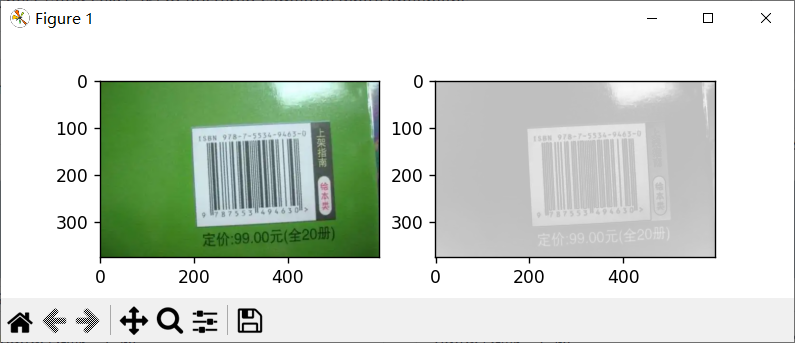
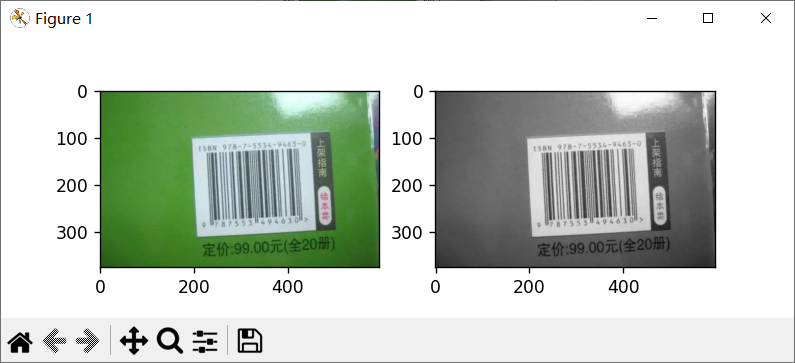
完成了二值化，修改了部分代码

diff --git a/latex_raw/report.tex b/latex_raw/report.tex
@@ -51,15 +51,17 @@ Windows10 + Python 3.10.6\\
 \[I(x,y)=0.299\cdot f_R(x,y)+0.587\cdot f_G(x,y)+0.114\cdot f_B(x,y)\] %不需要\\
 但是如果直接使用Python迭代来处理上述过程，非常缓慢。所以考虑用\textbf{矩阵运算优化}。我们知道，向量内积的计算结果是实数，故有：
 \[(R,G,B)\cdot(0.299,0.587,0.114)=0.299R+0.587G+0.114B\]
-因此，考虑用向量内积，直接调用底层依托 C++ 实现的 numpy 的向量运算 `dot` 函数，一来 C++ 比 Python 快，二来矩阵运算比迭代快，这样能起到不小的常数优化作用。在下文的其他具体实现里也会反复用到类似的思路。因此，核心代码如下：
+因此，考虑用向量内积，直接调用底层依托 C++ 实现的 numpy 的向量运算 dot 函数，一来 C++ 比 Python 快，二来矩阵运算比迭代快，这样能起到不小的常数优化作用。在下文的其他具体实现里也会反复用到类似的思路。因此，核心代码如下：
 \begin{lstlisting}[language=python]
 import numpy as np
 def toGrey(img):
+    if len(img.shape) == 2:  # 已经是灰度图像了
+        return img
     rd = img.shape[2]  # 可能是3/4(png有alpha通道)
     line = [0.299, 0.587, 0.114, 0][:rd]
-    arr = [line for i in range(rd)]
-    trans = np.array(arr).transpose()  # 矩阵转置
+    trans = np.array(line).transpose()  # 矩阵转置
     img2 = np.dot(img, trans).astype(img.dtype)
+    img2 = np.reshape(img2, img.shape[:2])
     return img2
 \end{lstlisting}
 运行效果如下：
@@ -68,9 +70,56 @@ def toGrey(img):
     \includegraphics[height=120pt]{sample_toGrey}
     \caption{灰度化效果展示}
 \end{figure}
+
+
+\subsection{二值化}
+根据课件(第9章-3基于阈值的图像分割)内容可知，可以按照图像的灰度不同，选取一个阈值 $x$，将灰度 $\ge x$ 的都转为一种灰度，其余的转为另一种灰度，实现二值化。这个阈值如果手动选取的话适应性不够强，所以考虑用基本自适应阈值。采用 Otsu 算法(最大类间方差法)，具体步骤如下：
+设图像长宽为 $n,m$，最佳阈值是 $x$，$< x$ 的点有 $n_0$ 个，$\ge x$ 的点有 $n_1$ 个，原图 $< x$ 的点平均灰度为 $\mu_0$，$\ge x$ 的点平均灰度为 $\mu_1$，令：
+\[w_0=\frac{n_0}{nm},\quad w_1=\frac{n_1}{nm}\]
+显然满足：
+\[n_0+n_1=nm,\quad w_0+w_1=1\]
+则二值化前的均值 $\mu$ 显然满足：
+\[\mu=w_0\cdot\mu_0+w_1\cdot\mu_1\]
+为了让方差最大化，设方差 $\sigma$ 为：
+\[\sigma=w_0\cdot(\mu_0-\mu)^2+w_1\cdot(\mu_1-\mu)^2\]
+联立解得：$\sigma=w_0\cdot w_1\cdot (\mu_0-\mu_1)^2$，因此，将所有 $\ge x$ 的点与 $< x$ 的点分别染色为两种灰度，即可实现灰度化。\\
+具体到代码实现上，可以枚举 $x\in[0,255]$，然后分别计算 $\sigma$，将取得最大 $\sigma$ 的 $x$ 作为阈值即可。\\
+考虑到在本题中，一般是从按的背景上分割出暗的物体(即数字)，所以将 $< x$ 的都染为黑色，$\ge x$ 的都染成白色。\\
+上述代码涉及大量遍历图像的操作，将其用\textbf{矩阵运算优化}，能显著提升运算效率。时间复杂度为 $O(255nm)$，对较小的图像能以几乎一瞬间求出结果。\\
+核心代码如下：
+\begin{lstlisting}[language=python]
+import numpy as np
+def getThrestHold(img):
+    n, m = img.shape
+    mx, x = -1, 0  # mx是当前最大值,x是取得最值的阈值
+    np.seterr(divide='ignore',invalid='ignore')#零除
+    for i in range(0, 256):
+        n0 = np.sum(img < i)
+        n1 = n*m-n0
+        w0 = n0/(n*m)
+        w1 = 1-w0
+        mu0 = np.sum(img[img < i])/n0
+        mu1 = np.sum(img[img >= i])/n1
+        g = w0*w1*(mu0-mu1)**2
+        if g > mx:
+            mx, x = g, i
+    return x
+def toBinary(img, x, ltx=0, gex=255):
+    img2 = img.copy()
+    img2[img2 < x] = ltx
+    img2[img2 >= x] = gex
+    return img2
+\end{lstlisting}
+运行效果如下：
+\begin{figure}[htbp]
+    \centering
+    \includegraphics[height=120pt]{sample_toBinary}
+    \caption{二值化效果展示}
+\end{figure}
 \section{实验结果及分析}
 \section{总结与体会}
 \section{致谢}
 \section{参考文献}
+Otsu 算法解析\\https://blog.csdn.net/a15779627836/article/details/124151125
 \section{附录}
 \end{document}

diff --git a/codes/mods/toBinary.py b/codes/mods/toBinary.py
@@ -1,0 +1,68 @@
+import numpy as np
+import cv2
+from toGrey import toGrey
+
+
+def getThrestHold(img):
+    '''传入灰度化的图像(要求维度n*m),灰度取整[0,255]\n
+    使用Otsu算法求出阈值并返回该阈值x∈[0,255]'''
+    n, m = img.shape
+    mx, x = -1, 0  # mx是当前最大值,x是取得最值的阈值
+    np.seterr(divide='ignore', invalid='ignore')  # 零除
+    for i in range(0, 256):
+        n0 = np.sum(img < i)
+        n1 = n*m-n0
+        w0 = n0/(n*m)
+        w1 = 1-w0
+        mu0 = np.sum(img[img < i])/n0
+        mu1 = np.sum(img[img >= i])/n1
+        g = w0*w1*(mu0-mu1)**2
+        if g > mx:
+            mx, x = g, i
+    return x
+
+
+def toBinary(img, x, ltx=0, gex=255):
+    '''函数功能:传入彩图img和阈值x,将其二值化并返回\n
+    规定<x的染成白色(ltx),>=x的染成灰色(gex)'''
+    img2 = img.copy()
+    img2[img2 < x] = ltx
+    img2[img2 >= x] = gex
+    return img2
+
+
+# 算法测试与展示
+'''
+import matplotlib.image as mpimg
+import matplotlib.pyplot as plt
+img = cv2.imread('../b.png')
+img0 = toGrey(img)
+img2 = toBinary(img0, getThrestHold(img0))
+plt.subplot(121)
+plt.imshow(img)
+plt.subplot(122)
+plt.imshow(img2,'gray')
+plt.show()
+'''
+
+# 算法比较：库函数调用
+'''
+def toBinary(img):
+    # img = cv2.cvtColor(img, cv2.COLOR_BGR2GRAY)
+    img = toGrey(img)
+    th, img2 = cv2.threshold(img, 0, 256, cv2.THRESH_BINARY + cv2.THRESH_OTSU)
+    print(th)
+    return img2
+import matplotlib.image as mpimg
+import matplotlib.pyplot as plt
+# img =mpimg.imread('../a.png') #(实数[0,1]且有alpha)
+img =cv2.imread('../a.png') #(整数[0,255]且无alpha)
+print(img[0,0])
+print(img.shape)
+img2 = toBinary(img)
+plt.subplot(121)
+plt.imshow(img)
+plt.subplot(122)
+plt.imshow(img2,'gray')
+plt.show()
+'''

diff --git a/codes/mods/toGrey.py b/codes/mods/toGrey.py
@@ -1,16 +1,20 @@
 import numpy as np
 
 
+#等效:cv2.cvtColor(img, cv2.COLOR_BGR2GRAY)
 def toGrey(img):
     '''函数功能:传入img,将其灰度化并返回\n
     根据课件内容, 采用加权平均的方法做灰度化效果更好\n
     为了加速运算, 使用矩阵运算而不是 for-for 迭代\n
-    为了方便后续处理,维度将保持不变'''
+    为了方便后续处理,维度将保持不变\n
+    建议输入:[0,255]整数表示灰度,只有RGB无alpha通道\n'''
+    if len(img.shape) == 2:  # 已经是灰度图像了
+        return img
     rd = img.shape[2]  # 可能是3/4(png有alpha通道)
     line = [0.299, 0.587, 0.114, 0][:rd]
-    arr = [line for i in range(rd)]
-    trans = np.array(arr).transpose()  # 矩阵转置
+    trans = np.array(line).transpose()  # 矩阵转置
     img2 = np.dot(img, trans).astype(img.dtype)
+    img2 = np.reshape(img2, img.shape[:2])
     return img2
 
 
@@ -22,7 +26,7 @@ import numpy as np
 img = mpimg.imread('../a.jpg') #任意彩色图片
 img2 = toGrey(img)
 print(img.shape, img2.shape)
-plt.imshow(img2)
+plt.imshow(img2,'gray')
 plt.show()
 toGrey()
 '''
@@ -38,6 +42,6 @@ img2 = toGrey(img)
 plt.subplot(121)
 plt.imshow(img)
 plt.subplot(122)
-plt.imshow(img2)
+plt.imshow(img2,'gray')#not greys
 plt.show()
 '''
